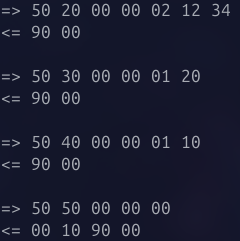
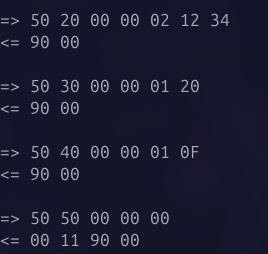
wallet done

diff --git a/labs/week5/week5/src/main/java/com/example/Wallet.java b/labs/week5/week5/src/main/java/com/example/Wallet.java
@@ -23,6 +23,7 @@ public class Wallet extends Applet {
     final static byte CREDIT = (byte) 0x30;
     final static byte DEBIT = (byte) 0x40;
     final static byte GET_BALANCE = (byte) 0x50;
+    final static byte UNBLOCK_PIN = (byte) 0x60;
     
     // maximum balance
     final static short MAX_BALANCE = 0x7FFF;
@@ -34,10 +35,13 @@ public class Wallet extends Applet {
     final static byte PIN_TRY_LIMIT =(byte)0x03;
     // maximum size PIN
     final static byte MAX_PIN_SIZE =(byte)0x08;
+
+    final static byte MAX_PUK_SIZE = (byte) 0x08;
+    final static byte PUK_TRY_LIMIT = (byte) 0x03;
     
     // signal that the PIN verification failed
-    final static short SW_VERIFICATION_FAILED =
-    0x6300;
+    final static short SW_VERIFICATION_FAILED = 0x6300;
+
     // signal the the PIN validation is required
     // for a credit or a debit transaction
     final static short SW_PIN_VERIFICATION_REQUIRED =
@@ -53,6 +57,7 @@ public class Wallet extends Applet {
     
     /* instance variables declaration */
     OwnerPIN pin;
+    OwnerPIN puk;
     short balance; // two bytes... Max 16384
     
     private Wallet (byte[] bArray,short bOffset,byte bLength) {
@@ -61,6 +66,7 @@ public class Wallet extends Applet {
         // all the memory that an applet needs during
         // its lifetime inside the constructor
         pin = new OwnerPIN(PIN_TRY_LIMIT,   MAX_PIN_SIZE);
+        puk = new OwnerPIN(PUK_TRY_LIMIT, MAX_PUK_SIZE);
 
         
         // The installation parameters contain the PIN
@@ -74,12 +80,23 @@ public class Wallet extends Applet {
         // byte aLen = bArray[bOffset]; // applet data length                                                                                                                                                                                 
         // pin.update(bArray, (short) (bOffset + 1), aLen);                                                                                                                                                                                   
 
-        // For jcardsim                                                                                                                                                                                                                        
-        byte iLen = bArray[bOffset]; // aid length                                                                                                                                                                                            
-		//System.out.println("bOffset = "+bOffset);                                                                                                                                                                                           
-        bOffset = (short) (bOffset+iLen+1);
-        byte cLen = bArray[bOffset]; // info length (Pin Length)                                                                                                                                                                              
-        pin.update(bArray, (short) (bOffset+1), cLen);
+        byte aidLen = bArray[bOffset]; 
+        bOffset = (short) (bOffset + 1 + aidLen);
+
+        byte pinLen = bArray[bOffset++];
+        byte pukLen = bArray[bOffset++];
+        byte saldoHi = bArray[bOffset++];
+        byte saldoLo = bArray[bOffset++];
+
+        pin = new OwnerPIN(PIN_TRY_LIMIT, MAX_PIN_SIZE);
+        puk = new OwnerPIN(PUK_TRY_LIMIT, MAX_PUK_SIZE);
+
+        pin.update(bArray, bOffset, pinLen);
+        bOffset += pinLen;
+        puk.update(bArray, bOffset, pukLen);
+
+        balance = Util.makeShort(saldoHi, saldoLo);
+
 
         register();
     
@@ -146,6 +163,9 @@ public class Wallet extends Applet {
             return;
         case VERIFY:
             verify(apdu);
+            return;
+        case UNBLOCK_PIN:
+            unblockPIN(apdu);
             return;
         default:
             ISOException.throwIt(ISO7816.SW_INS_NOT_SUPPORTED);
@@ -270,6 +290,16 @@ public class Wallet extends Applet {
             ISOException.throwIt(SW_VERIFICATION_FAILED);
         
     } // end of validate method
+
+    private void unblockPIN(APDU apdu) {
+        byte[] buffer = apdu.getBuffer();
+        byte len = (byte)(apdu.setIncomingAndReceive());
+
+        if (!puk.check(buffer, ISO7816.OFFSET_CDATA, len)) {
+            ISOException.throwIt(ISO7816.SW_SECURITY_STATUS_NOT_SATISFIED);
+        }
+        pin.resetAndUnblock();
+    }
 } // end of class Wallet
 
 

diff --git a/labs/week5/week5/src/main/java/com/example/App.java b/labs/week5/week5/src/main/java/com/example/App.java
@@ -23,6 +23,8 @@ public class App
             0x01, 0x02, 0x03, 0x04, 0x05, 0x06, 0x07, 0x08, 0x09,
             // PIN, PUCK length
             0x02, 0x02,
+            // balance
+            0x00, 0x64, // 100$
             // PIN bytes
             0x12, 0x34,
             // PUCK Bytes
@@ -32,9 +34,11 @@ public class App
         simulator.installApplet(AppletAID, Wallet.class,  installData, (short) 0, (byte) installData.length);
         simulator.selectApplet(AppletAID);
 
-        send(simulator, new byte[] { 0x50, 0x20, 0x00, 0x00, 0x02, 0x12, 0x35 }); // Verifica PIN correto
-        send(simulator, new byte[] { 0x50, 0x20, 0x00, 0x00, 0x02, 0x12, 0x35 }); // Verifica PIN correto
-        send(simulator, new byte[] { 0x50, 0x20, 0x00, 0x00, 0x02, 0x12, 0x35 }); // Verifica PIN correto
+        send(simulator, new byte[] { 0x50, 0x20, 0x00, 0x00, 0x02, 0x12, 0x35 }); // Verifica PIN errado
+        send(simulator, new byte[] { 0x50, 0x20, 0x00, 0x00, 0x02, 0x12, 0x35 }); // Verifica PIN errado
+        send(simulator, new byte[] { 0x50, 0x20, 0x00, 0x00, 0x02, 0x12, 0x35 }); // Verifica PIN errado
+        send(simulator, new byte[] { 0x50, 0x20, 0x00, 0x00, 0x02, 0x12, 0x34 }); // Verifica PIN correto
+        send(simulator, new byte[] { 0x50, 0x60, 0x00, 0x00, 0x02, 0x56, 0x78 }); // Desbloqueio com PUK
         send(simulator, new byte[] { 0x50, 0x20, 0x00, 0x00, 0x02, 0x12, 0x34 }); // Verifica PIN correto
         send(simulator, new byte[] { 0x50, 0x30, 0x00, 0x00, 0x01, 0x20 }); // Credita 32
         send(simulator, new byte[] { 0x50, 0x40, 0x00, 0x00, 0x01, 0x0F }); // Debita 15
